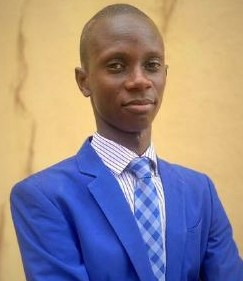
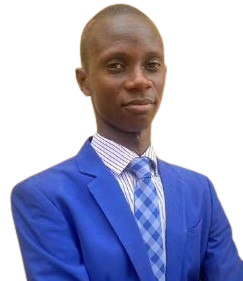
Adding framer motion

diff --git a/src/About.js b/src/About.js
@@ -1,24 +1,71 @@
+import { motion, useAnimation } from 'framer-motion'
+import { useEffect } from 'react'
+import { useInView } from 'react-intersection-observer'
+
 const About = () => {
+  const controls = useAnimation()
+  const [ref, inView] = useInView({
+    threshold: 0.1,
+  })
+
+  useEffect(() => {
+    if (inView) {
+      controls.start('visible')
+    } else {
+      controls.start('hidden')
+    }
+  }, [controls, inView])
+
   return (
     <section className="about" id="about">
-      <div className="about-img">
-        <img src="./pics-removebg-preview.png" alt="pics" className="img" />
-      </div>
+      <motion.div
+        ref={ref}
+        animate={controls}
+        initial="hidden"
+        variants={{
+          visible: { opacity: 1, y: 0 },
+          hidden: { opacity: 0, y: -200 },
+        }}
+        transition={{
+          duration: 0.8,
+          delay: 0.2,
+          ease: 'easeOut',
+        }}
+      >
+        <div className="about-img">
+          <img src="/abeeb.png" alt="pics" className="img about-img" />
+        </div>
+      </motion.div>
       <div className="about-content">
         <h2>
           About <span>ME</span>
         </h2>
-        <p>
-          I am Abeeb Maroof Olumide, an expert in creating responsive website
-          with great user interface and user experience. I work well with others
-          and have a great problem-solving skills. I thrive in dynamic
-          environments leveraging on my problem-solving skills to overcome
-          challenges and exceed expectation. My user centered approach allows me
-          to design captivating visuals and provide an optimal use experience.
-          Continually seeking the latest trends. I enjoy taking on new
-          challenges and collaborating with clients to bring ideas to life
-          through high quality user interface.
-        </p>
+        <motion.div
+          ref={ref}
+          animate={controls}
+          initial="hidden"
+          variants={{
+            visible: { opacity: 1, x: 0, y: 0 },
+            hidden: { opacity: 0, x: 100, y: 100 },
+          }}
+          transition={{
+            duration: 0.8,
+            delay: 0.2,
+            ease: 'easeOut',
+          }}
+        >
+          <p>
+            I am Abeeb Maroof Olumide, an expert in creating responsive website
+            with great user interface and user experience. I work well with
+            others and have a great problem-solving skills. I thrive in dynamic
+            environments leveraging on my problem-solving skills to overcome
+            challenges and exceed expectation. My user centered approach allows
+            me to design captivating visuals and provide an optimal use
+            experience. Continually seeking the latest trends. I enjoy taking on
+            new challenges and collaborating with clients to bring ideas to life
+            through high quality user interface.
+          </p>
+        </motion.div>
       </div>
     </section>
   )

diff --git a/src/index.scss b/src/index.scss
@@ -34,8 +34,9 @@ body {
 }
 section {
   min-height: 80%;
-  margin-top: 1rem;
-  padding-top: 7rem;
+  margin-top: 2rem;
+  padding-top: 8rem;
+  padding-bottom: 8rem;
 }
 
 /* Header styling starts here
@@ -116,12 +117,13 @@ for Header*/
     h1 {
       font-size: 5.6rem;
       font-weight: 700;
-      line-height: 1.3;
+      line-height: 2;
     }
 
     p {
       font-size: 1.6rem;
       margin: 1rem;
+      margin-left: 0;
     }
     h3 {
       font-size: 3.2rem;
@@ -151,15 +153,10 @@ for Header*/
         border-radius: 1rem;
         font-size: 1.5rem;
         text-decoration: none;
-        color: rgb(206, 186, 186);
-        transition: all 0.5s;
-        transition-timing-function: ease-in-out;
+        color: white;
 
         &:hover {
-          color: $bg;
-          box-shadow: 0.5 5px red;
-          font-size: 2rem;
-          padding: 1.5rem 2rem;
+          opacity: 0.7;
         }
       }
     }
@@ -179,13 +176,14 @@ span {
 
 .about {
   display: flex;
-  justify-content: center;
+  justify-content: space-around;
   align-items: center;
   gap: 2rem;
   max-width: 1440px;
   margin: 0 auto;
 
   .about-content {
+    flex-basis: 50%;
     opacity: 100%;
     h2 {
       text-align: left;
@@ -360,11 +358,13 @@ span {
 .skills {
   max-width: 1440px;
   margin: 0 auto;
+  margin-top: 100px;
   padding: 1rem;
+  padding-top: 2rem;
   margin-bottom: 8rem;
   padding-bottom: 4rem;
   .my-skills {
-    margin-bottom: 1rem;
+    margin-bottom: 2rem;
   }
 
   .flex {
@@ -549,4 +549,9 @@ aside {
     width: 2rem;
     height: 2rem;
   }
+}
+
+.about-img {
+  flex-basis: 20%;
+  width: 100%;
 }

diff --git a/src/Home.js b/src/Home.js
@@ -1,13 +1,28 @@
-import React from 'react'
+import { motion, useAnimation } from 'framer-motion'
+import { useEffect } from 'react'
+import { useInView } from 'react-intersection-observer'
 
 const Home = () => {
+  const controls = useAnimation()
+  const [ref, inView] = useInView({
+    threshold: 0.3,
+  })
+
+  useEffect(() => {
+    if (inView) {
+      controls.start('visible')
+    } else {
+      controls.start('hidden')
+    }
+  }, [controls, inView])
+
   return (
     <section id="home" className="home">
       <div className="home-content">
         <h3>Hello, it's Me</h3>
         <h1>Abeeb Maroof</h1>
         <h3>
-          And I am a <span>Frontend Developer</span>
+          I am a <span>Frontend Developer</span>
         </h3>
         <p>
           I am highly experienced in creating responsive web pages with great
@@ -30,9 +45,28 @@ const Home = () => {
           </a>
         </div>
       </div>
-      <div className="image">
-        <img src="./pics-removebg-preview.png" alt="my_pics" className="img" />
-      </div>
+      <motion.div
+        ref={ref}
+        animate={controls}
+        initial="hidden"
+        variants={{
+          visible: { opacity: 1, x: 0, y: 0 },
+          hidden: { opacity: 0, x: 100, y: -100 },
+        }}
+        transition={{
+          duration: 0.8,
+          delay: 0.2,
+          ease: 'easeIn',
+        }}
+      >
+        <div className="image">
+          <img
+            src="./pics-removebg-preview.png"
+            alt="my_pics"
+            className="img"
+          />
+        </div>
+      </motion.div>
     </section>
   )
 }

diff --git a/src/Projects.js b/src/Projects.js
@@ -1,5 +1,6 @@
 import { FaChevronUp } from 'react-icons/fa'
 import { project } from './Data'
+import FadeComponent from './FadeComponent'
 const Projects = () => {
   return (
     <section className="portfolio" id="projects">
@@ -11,15 +12,17 @@ const Projects = () => {
           const { name, image, link } = proj
 
           return (
-            <div key={index} className="portfoli-box">
-              <img src={image} alt={image} />
-              <div className="portfolio-layer">
-                <p>{name}</p>
-                <a href={link} target="_blank" rel="noreferrer">
-                  <FaChevronUp />
-                </a>
+            <FadeComponent key={index} index={index}>
+              <div className="portfoli-box">
+                <img src={image} alt={image} />
+                <div className="portfolio-layer">
+                  <p>{name}</p>
+                  <a href={link} target="_blank" rel="noreferrer">
+                    <FaChevronUp />
+                  </a>
+                </div>
               </div>
-            </div>
+            </FadeComponent>
           )
         })}
       </div>

diff --git a/src/FadeComponent.js b/src/FadeComponent.js
@@ -1,0 +1,41 @@
+import React, { useEffect } from 'react'
+import { motion, useAnimation } from 'framer-motion'
+import { useInView } from 'react-intersection-observer'
+
+const FadeComponent = ({ children, index }) => {
+  const controls = useAnimation()
+  const [ref, inView] = useInView({
+    threshold: 0.1,
+  })
+
+  const isEven = index % 2 === 0
+
+  useEffect(() => {
+    if (inView) {
+      controls.start('visible')
+    } else {
+      controls.start('hidden')
+    }
+  }, [controls, inView])
+
+  return (
+    <motion.div
+      ref={ref}
+      animate={controls}
+      initial="hidden"
+      variants={{
+        visible: { opacity: 1, x: 0, y: 0 },
+        hidden: { opacity: 0, x: isEven ? 0 : 100, y: isEven ? 100 : 0 },
+      }}
+      transition={{
+        duration: 0.8,
+        delay: index * 0.15,
+        ease: 'easeOut',
+      }}
+    >
+      {children}
+    </motion.div>
+  )
+}
+
+export default FadeComponent

diff --git a/src/Skills.js b/src/Skills.js
@@ -1,4 +1,5 @@
 import { skills } from './Data'
+import FadeComponent from './FadeComponent'
 const Skills = () => {
   return (
     <section id="skills" className="skills">
@@ -8,12 +9,14 @@ const Skills = () => {
         </h1>
       </div>
       <div className="flex">
-        {skills.map((skill) => {
+        {skills.map((skill, index) => {
           return (
-            <div className="grid-image" key={skill.id}>
-              <img src={skill.image} alt={skill.name} />
-              <p>{skill.name}</p>
-            </div>
+            <FadeComponent key={index} index={index}>
+              <div className="grid-image">
+                <img src={skill.image} alt={skill.name} />
+                <p>{skill.name}</p>
+              </div>
+            </FadeComponent>
           )
         })}
       </div>

diff --git a/src/Footer.js b/src/Footer.js
@@ -8,7 +8,7 @@ const Footer = () => {
       <div className="footer-content">
         <div className="footer-text">
           <p>
-            copyright &copy; {year} by <span> Abeebdon</span>
+            Copyright &copy; {year} by <span> Abeebdon</span>
           </p>
         </div>
         <div className="social-media">
